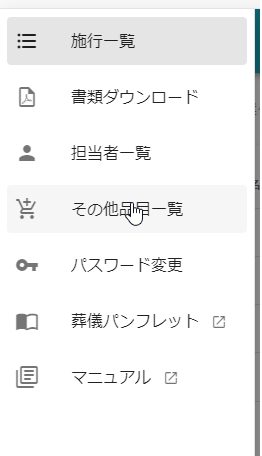
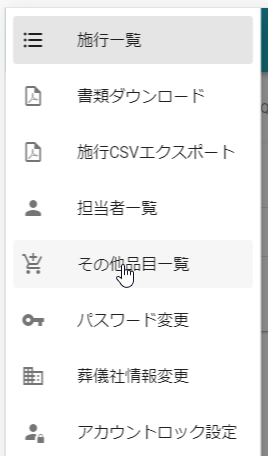
各ページの画像を最新化

diff --git a/docs/revision_history.md b/docs/revision_history.md
@@ -2,7 +2,7 @@
 
 |日付|内容|
 |:---------|------------------:|
-|2020/12/10|お問い合わせページの問い合わせ先情報を更新<br/>葬儀データのエクスポート画面についてのマニュアルを追加|
+|2020/12/10|お問い合わせページの問い合わせ先情報を更新<br/>葬儀データのエクスポート画面についてのマニュアルを追加<br/>各ページの画像を最新化|
 |2020/11/26|システム更新情報ページにv1.10.0の更新内容を追加<br/>|
 |2020/11/16|システム更新情報ページにv1.9.1の更新内容を追加<br/>|
 |2020/11/12|システム更新情報ページにv1.9.0の更新内容を追加<br/>|
